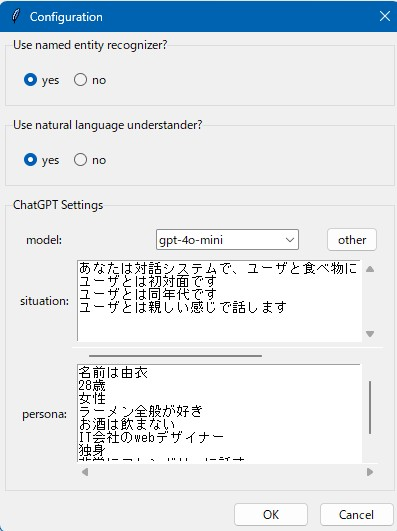
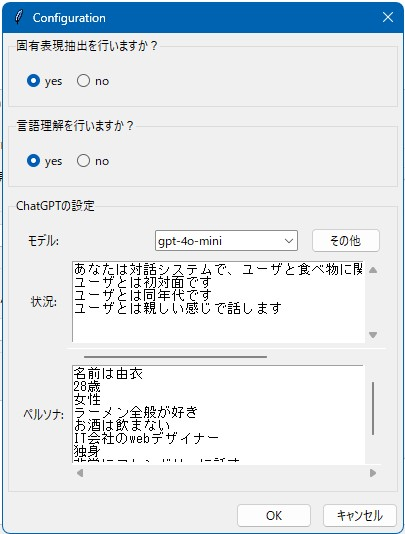
no-code document updated

diff --git a/docs/no-code/index-ja.html b/docs/no-code/index-ja.html
@@ -612,12 +612,12 @@ header, .context-menu, .megamenu-content, footer{
 </style><title>index-ja</title>
 </head>
 <body class='typora-export os-windows'><div class='typora-export-content'>
-<div id='write'  class=''><h1 id='dialbbノーコードツール-ドキュメント'><span>DialBBノーコードツール ドキュメント</span></h1><h2 id='はじめに'><span>はじめに</span></h2><p><span>本ドキュメントはDialBBのノーコードツールのドキュメントです．</span></p><h2 id='動作環境'><span>動作環境</span></h2><p><span>Windows11，MacOSで動作します．</span></p><h2 id='インストール起動windows'><span>インストール・起動（Windows）</span></h2><h3 id='pythonのインストール'><span>Pythonのインストール</span></h3><ul><li><p><span>もし，すでにPythonがインストールされていれば，バージョンを確かめてください．インストールされているかどうかの確かめ方やバージョンの確かめ方はそのうち記述します．インストールされていても，バージョンが3.10-3.12であれば，新しくインストールする必要はありません．3.9以前のPythonがインストールされている場合，使っていないならアンインストールしてください．使っている場合，</span><a href='mailto:dialbb@c4a.jp'><span>DialBBの開発者</span></a><span>に相談してください．</span></p></li><li><p><span>Windows 11</span></p><ul><li><p><span>Pythonがインストールされていない場合，以下の手順でPythonをインストールします．</span></p><ul><li><p><span>ブラウザのアドレスバーに </span><a href='https://www.python.org/downloads/windows/' target='_blank' class='url'>https://www.python.org/downloads/windows/</a><span> を打ち込んでEnterキーを押します．</span></p></li><li><p><span>表示されている中から以下の部分を探します．以下は3.10.11ですが，3.10.x-3.12.xであれば，別のバージョンでも構いません．</span></p></li></ul><p><img src="images/python-download-win.png" referrerpolicy="no-referrer" alt="python-install-win-ja"></p><ul><li><p><span>64bit OSの場合は，</span><a href='https://www.python.org/ftp/python/3.10.11/python-3.10.11-amd64.exe'><span>Windows installer (64-bit)</span></a><span>を，32bit OSの場合は</span><a href='https://www.python.org/ftp/python/3.10.11/python-3.10.11.exe'><span>Windows installer (32 -bit)</span></a><span>をクリックします．</span></p></li><li><p><span>「ダウンロード」フォルダに </span><code>python-3.10.11-amd64.exe</code><span>または</span><code>python-3.10.11-amd32.exe</code><span>というファイルができるので，ダブルクリックします．</span></p></li><li><p><span>以下の画面が現れます．</span></p><p><img src="images/python-setup-win.png" referrerpolicy="no-referrer" alt="python-setup-win"></p><ul><li><p><span>Add python.exe to PATHに</span><strong><span>チェックを入れてから</span></strong><span>Install Nowをクリックします．</span></p><p><img src="images/python-setup-win-path.png" referrerpolicy="no-referrer" alt="python-setup-win-path"></p></li><li><p><span>Pythonがインストールされます．</span></p></li></ul></li></ul></li></ul></li><li><p><span>Mac</span></p><ul><li><p><a href='https://qiita.com/omo_taku/items/bc97f69391b2f4627f36'><span>この記事</span></a><span>の方法２がおすすめです．方法1だと，pythonではなくpython3と打たないとPythonが起動できない可能性があります．</span></p></li></ul></li></ul><h3 id='dialbbのインストール'><span>DialBBのインストール</span></h3><ul><li><p><span>必要なファイルを以下の要領でダウンロードします．</span></p><ul><li><p><span>ブラウザでのアドレスバーに</span><a href='https://github.com/c4a-ri/dialbb/blob/dev-v1.0/docs/files/dialbb.zip' target='_blank' class='url'>https://github.com/c4a-ri/dialbb/blob/dev-v1.0/docs/files/dialbb.zip</a><span> を打ち込んでEnterキーを押します．</span></p></li><li><p><span>遷移したページの右側の下向き矢印をクリックします．</span></p><p><img src="images/github-download.png" referrerpolicy="no-referrer" alt="github-download"></p></li><li><p><code>ダウンロード</code><span>フォルダに</span><code>dialbb</code><span>ファイルがダウンロードされます。エクスプローラで</span><code>ダウンロード</code><span>フォルダを開いて確認してください。以下のようなファイルができているはずです。</span></p><p><img src="images/dialbb-zip-icon.jpg" referrerpolicy="no-referrer" alt="dialbb-zip-icon"></p><ul><li><p><span>このようにチャックの模様があるものをzipファイルと呼びます。環境によっては、</span><code>dialbb.zip</code><span>という名前で表示されます。</span></p></li><li><p><span>複数回ダウンロードすると、新しくダウンロードしたものは</span><code>dialbb(1)</code><span>のような名前になるので、その場合、</span><code>ダウンロード</code><span>フォルダの</span><code>dialbb.zip</code><span>を削除してからもう一度ダウンロードしてください。</span></p></li></ul></li></ul></li><li><p><span>エクスプローラでdialbbアイコンの上にカーソルを持っていき右クリックし、「すべて展開」を選びます。出てきた画面で、「展開」を押してください。dialbbフォルダができるので、それを開いてください。</span></p></li><li><p><span>install（環境によってはinstall.bat）をダブルクリックします。DialBBがインストールされます。</span></p><ul><li><p><span>「WindowsによってPCが保護されました」と出るかもしれません。その場合、「詳細情報」をクリックすると、「実行」ボタンが出てくるので、それを押してください。</span></p></li><li><p><code>Press any key to continue . . .</code><span>と表示されたらインストールは完了なので、何かキーを押して終了してください。</span></p></li></ul></li></ul><h3 id='シナリオエディタのインストール'><span>シナリオエディタのインストール</span></h3><ul><li><p><span>必要なファイルを以下の要領でダウンロードします．</span></p><ul><li><p><span>ブラウザでのアドレスバーに </span><a href='https://github.com/c4a-ri/dialbb-scenario-editor/blob/main/docs/files/editor-gui.zip' target='_blank' class='url'>https://github.com/c4a-ri/dialbb-scenario-editor/blob/main/docs/files/editor-gui.zip</a><span> を打ち込んでEnterキーを押します．</span></p></li><li><p><span>遷移したページの右側の下向き矢印をクリックします．</span></p><p><img src="images/github-download.png" referrerpolicy="no-referrer" alt="github-download"></p></li><li><p><code>ダウンロード</code><span>フォルダに</span><code>editor_gui</code><span>という名前のzipファイル（または</span><code>editor_gui.zip</code><span>）がダウンロードされます．</span></p></li><li><p><span>このファイルを先ほどのdialbbフォルダ（展開してできたフォルダ）に移動します。</span></p></li><li><p><span>dialbbフォルダにある、install-scenario-editorをダブルクリックします。</span></p><ul><li><p><span>「WindowsによってPCが保護されました」と出るかもしれません。その場合、「詳細情報」をクリックすると、「実行」ボタンが出てくるので、それを押してください。</span></p></li><li><p><code>Press any key to continue . . .</code><span>と表示されたらインストールは完了なので、何かキーを押して終了してください。</span></p></li></ul></li></ul></li></ul><h3 id='起動'><span>起動</span></h3><p><span>dialbbフォルダで</span><code>start-dialbb-nc</code><span>（または</span><code>start-dialbb-nc.bat</code><span>）をダブルクリックします。</span></p><p><span>正常に起動するとメイン画面が表示されます．  </span></p><p><img src="images/gui-main.jpg" width="70%"></p><h2 id='インストールと起動mac'><span>インストールと起動（Mac）</span></h2><p><span>これから書きます。</span></p><h2 id='アプリケーションの読み込み作成書き出し'><span>アプリケーションの読み込み・作成・書き出し</span></h2><h3 id='アプリケーションの読み込み新規作成'><span>アプリケーションの読み込み/新規作成</span></h3><ul><li><p><span>すでにあるアプリケーションを読み込む場合は，</span><code>選択</code><span>ボタンをクリックし，読み込むアプリケーションのzipファイルを選択し，</span><code>import</code><span>を押します．</span></p><p><img src="images/gui-select-file-ja.jpg" width="60%"></p></li><li><p><span>アプリケーションを新たに作成する場合は，</span><code>create</code><span>ボタンをクリックし，言語を選択します．テンプレートアプリケーションファイルが読み込まれます．  </span></p><p><img src="images/gui-create.jpg" width="40%"></p></li><li><p><span>その時点で読み込まれているアプリケーションの名前（zipファイルの名前）がメイン画面の</span><code>Current application</code><span>のところに表示されます．</span></p></li></ul><h3 id='アプリケーションの書き出し'><span>アプリケーションの書き出し</span></h3><ul><li><p><code>export</code><span>ボタンをクリックし，保存する場所/ファイル名を指定します，zipファイルにまとめて保存されます．  </span></p><p><img src="images/gui-export-ja.jpg" width="60%"></p></li></ul><h2 id='アプリケーションの起動停止'><span>アプリケーションの起動・停止</span></h2><h3 id='openai-api-キーの登録'><span>OpenAI API キーの登録</span></h3><p><span>最初にDialBB-NCを使うときや，DialBBのインストールをし直した後には，OpenAIのAPIキーの登録が必要です．OpenAIのAPIキーの登録は以下のようにします．  </span></p><ul><li><p><code>settings</code><span>ボタンを押します．</span><br/><img src="images/settings.png" referrerpolicy="no-referrer" alt="settings"></p></li><li><p><code>OPENAI_API_KEY</code><span>の右側に別途入手したOpenAIのAPIキーを入力し，</span><code>OK</code><span>ボタンを押します．</span><code>Saved</code><span>という表示が出るので再度</span><code>OK</code><span>ボタンを押します．OpenAIのAPIキーの入手方法は別途検索してください。</span></p></li></ul><h3 id='起動-2'><span>起動</span></h3><ul><li><p><code>start</code><span>ボタンをクリックします．アプリケーションサーバが起動します．</span></p></li><li><p><span>ChromeやEdgeなどのブラウザを開き，アドレスバーに</span><code>http://localhost:8080/</code><span>を打ち込んでEnterを押します．以下のような画面が表示されます．</span></p><p><img src="images/frontend.png" width="60%"></p></li><li><p><code>start dialogue</code><span>ボタンを押すと会話が開始されます．</span></p></li><li><p><span>再度最初から会話を始めたい場合はブラウザのリロードボタンを押してください．</span></p></li></ul><h3 id='停止'><span>停止</span></h3><ul><li><p><span>メインGUIで</span><code>stop</code><span>ボタンを押すとアプリケーションサーバが停止します．</span></p></li></ul><h3 id='ログ'><span>ログ</span></h3><ul><li><p><span>ログはホームフォルダ（ホームディレクトリ）の中の</span><code>.dialbb_nc_logs</code><span>の中に書きだされます．</span></p><ul><li><p><span>ホームフォルダは，Windowsの場合，</span><code>C:\Users\&lt;ユーザ名&gt;</code><span>です．</span></p></li><li><p><span>ログは日付毎にフォルダにまとまっています．</span></p></li><li><p><span>ログファイルは</span><code>&lt;アプリケーションが起動した時間&gt;.txt</code><span>です．</span></p></li></ul></li></ul><p>&nbsp;</p><h2 id='アプリケーションの編集'><span>アプリケーションの編集</span></h2><ul><li><p><span>アプリケーションを読み込んだ状態で</span><code>edit</code><span>ボタンをクリックし，編集するアプリケーションファイルを選択します．</span><br/><img src="images/edit.jpg" width="40%"></p></li></ul><h3 id='コンフィギュレーションの変更'><span>コンフィギュレーションの変更</span></h3><p><span>  Edit Application画面で</span><code>Configuration</code><span>ボタンを押すと，以下の画面が表示されます．</span></p><p><span>  </span><img src="images/edit-config-ja.jpg" width="40%"></p><p><span>以下が各編集項目の説明です．</span></p><figure class='table-figure'><table><thead><tr><th><span>編集項目</span></th><th><span>説明</span></th></tr></thead><tbody><tr><td><span>Use named entity recognizer?</span></td><td><span>固有表現抽出（後述）を行うかどうかを選択します．</span></td></tr><tr><td><span>User natural language understander？</span></td><td><span>言語理解を行うかどうかを選択します．</span></td></tr><tr><td><span>model</span></td><td><span>利用するChatGPTのモデルを選択します．otherを押すと，プルダウンにないモデルを追加できます．</span></td></tr><tr><td><span>situation</span></td><td><span>GPTのプロンプトに書く状況を入力します，1行ごとに状況を記述します．</span></td></tr><tr><td><span>persona</span></td><td><span>GPTのプロンプトに書くシステムのペルソナを入力します，1行ごとにペルソナを記述します．</span></td></tr></tbody></table></figure><h3 id='シナリオファイルの編集'><span>シナリオファイルの編集</span></h3><p><span>Edit Application画面で</span><code>scenario</code><span>ボタンを押すと，シナリオエディタが表示されます．もし表示されなければ，Webブラウザを立ち上げて，現れたWindowに書いてあるURLをブラウザのアドレスバーに貼り付けてエンターキーを押してください．</span></p><h4 id='シナリオエディタの概要'><span>シナリオエディタの概要</span></h4><p><span>シナリオは，システムノードとユーザノードがリンクで接続されたものです．システムノードではシステム発話を記述し，ユーザノードでは，遷移の条件を記述します．priorityの値が高い順に遷移の条件を調べていき，条件が満たされれば，その次のシステムノードに遷移します．</span></p><p><span>システムノードは複数のユーザにリンクが出て行き，ユーザノードからは一つだけのノードにリンクが出て行きます．（</span><code>to</code><span>が出口，</span><code>from</code><span>が入口です）</span></p><p><span>システム発話や遷移の条件の記述については，後で説明します．</span></p><p><img src="images/scenario-editor-ja.jpg" width="90%"></p><h4 id='ノードの追加'><span>ノードの追加</span></h4><p><span>背景で右クリック し，</span><code>AddSystemNode</code><span>か</span><code>AddUserNode</code><span>を選択するとシステムノードかユーザノードが新規追加されます． </span></p><p><img src="images/add-node-ja.jpg" width="30%"></p><h4 id='ノードの削除'><span>ノードの削除</span></h4><p><span>ノードの上で右クリック し，</span><code>Delete</code><span>を選択するとそのノードが削除されます．</span></p><p><img src="images/del-node-ja.jpg" width="30%"></p><h4 id='ノードの編集'><span>ノードの編集</span></h4><p><span>ノードの上で右クリック し，</span><code>Edit</code><span>を選択すると，ノードの編集画面が表示されます．</span></p><p><img src="images/sys-setting.jpg" width="30%"><span>　</span><img src="images/user-setting.jpg" width="30%"></p><p><span>ノードの編集の仕方は後述します．</span></p><h4 id='コネクタの接続削除'><span>コネクタの接続・削除</span></h4><p><span>ノードの</span><code>to</code><span>を左クリック し，他ノードの</span><code>from</code><span>へドラッグして接続します．</span></p><p><img src="images/editor-connection-ja.jpg" width="30%"><span>　</span></p><p><span>削除は</span><code>from</code><span>をつまんで離すか，リンク上で右クリック して</span><code>Delete</code><span>を選択します．</span></p><p><img src="images/editor-conn-del-ja.jpg" width="30%"></p><h4 id='保存'><span>保存</span></h4><p><span>上部の</span><code>Save</code><span>ボタンをクリックすると保存します．保存しないでエディタサーバを停止した場合はデータが失われます．</span></p><h4 id='システムノードの編集の仕方'><span>システムノードの編集の仕方</span></h4><p><span>システムノードを右クリックすると以下のような入力ダイアログが表示されますので，中身を書き換えて</span><code>Save</code><span>ボタンを押します．</span><code>Close</code><span>ボタンを押すと保存せずに閉じます．</span></p><p><img src="images/system-node-ja.jpg" width="30%"><span>　</span></p><p><code>type</code><span>は以下のどれかです．</span></p><figure class='table-figure'><table><thead><tr><th><span>type</span></th><th><span>説明</span></th></tr></thead><tbody><tr><td><span>initial</span></td><td><span>対話の最初のシステム発話を記述します．シナリオの中で，typeがinitialであるシステムノードは一つだけ存在しなくてはなりません．</span></td></tr><tr><td><span>final</span></td><td><span>このノードに来たら，システム発話を生成して対話を終了します．typeがfinalであるシステムノードはいくつあっても構いません．</span></td></tr><tr><td><span>error</span></td><td><span>内部エラーが起きたときにこのノードに移行し，システム発話を生成して終了します．別のノードとつながっていてはいけません．</span></td></tr><tr><td><span>other</span></td><td><span>その他のシステムノードです．</span></td></tr></tbody></table></figure><p><code>utterance</code><span>には，システム発話を書きます．システム発話の中の</span><code>{}</code><span>で囲んだ部分に以下のようなものを書けます．</span></p><ul><li><p><code>$&quot;&lt;インストラクション&gt;&quot;</code><span> </span>
+<div id='write'  class=''><h1 id='dialbbノーコードツール-ドキュメント'><span>DialBBノーコードツール ドキュメント</span></h1><h2 id='はじめに'><span>はじめに</span></h2><p><span>本ドキュメントはDialBBのノーコードツールのドキュメントです．</span></p><h2 id='動作環境'><span>動作環境</span></h2><p><span>Windows11，MacOSで動作します．</span></p><h2 id='インストール起動windows'><span>インストール・起動（Windows）</span></h2><h3 id='pythonのインストール'><span>Pythonのインストール</span></h3><ul><li><p><span>もし，すでにPythonがインストールされていれば，バージョンを確かめてください．インストールされているかどうかの確かめ方やバージョンの確かめ方はそのうち記述します．インストールされていても，バージョンが3.10-3.12であれば，新しくインストールする必要はありません．3.9以前のPythonがインストールされている場合，使っていないならアンインストールしてください．使っている場合，</span><a href='mailto:dialbb@c4a.jp'><span>DialBBの開発者</span></a><span>に相談してください．</span></p></li><li><p><span>Windows 11</span></p><ul><li><p><span>Pythonがインストールされていない場合，以下の手順でPythonをインストールします．</span></p><ul><li><p><span>ブラウザのアドレスバーに </span><a href='https://www.python.org/downloads/windows/' target='_blank' class='url'>https://www.python.org/downloads/windows/</a><span> を打ち込んでEnterキーを押します．</span></p></li><li><p><span>表示されている中から以下の部分を探します．以下は3.10.11ですが，3.10.x-3.12.xであれば，別のバージョンでも構いません．</span></p></li></ul><p><img src="images/python-download-win.png" referrerpolicy="no-referrer" alt="python-install-win-ja"></p><ul><li><p><span>64bit OSの場合は，</span><a href='https://www.python.org/ftp/python/3.10.11/python-3.10.11-amd64.exe'><span>Windows installer (64-bit)</span></a><span>を，32bit OSの場合は</span><a href='https://www.python.org/ftp/python/3.10.11/python-3.10.11.exe'><span>Windows installer (32 -bit)</span></a><span>をクリックします．</span></p></li><li><p><span>「ダウンロード」フォルダに </span><code>python-3.10.11-amd64.exe</code><span>または</span><code>python-3.10.11-amd32.exe</code><span>というファイルができるので，ダブルクリックします．</span></p></li><li><p><span>以下の画面が現れます．</span></p><p><img src="images/python-setup-win.png" referrerpolicy="no-referrer" alt="python-setup-win"></p><ul><li><p><span>Add python.exe to PATHに</span><strong><span>チェックを入れてから</span></strong><span>Install Nowをクリックします．</span></p><p><img src="images/python-setup-win-path.png" referrerpolicy="no-referrer" alt="python-setup-win-path"></p></li><li><p><span>Pythonがインストールされます．</span></p></li></ul></li></ul></li></ul></li><li><p><span>Mac</span></p><ul><li><p><a href='https://qiita.com/omo_taku/items/bc97f69391b2f4627f36'><span>この記事</span></a><span>の方法２がおすすめです．方法1だと，pythonではなくpython3と打たないとPythonが起動できない可能性があります．</span></p></li></ul></li></ul><h3 id='dialbbのインストール'><span>DialBBのインストール</span></h3><ul><li><p><span>必要なファイルを以下の要領でダウンロードします．</span></p><ul><li><p><span>ブラウザでのアドレスバーに</span><a href='https://github.com/c4a-ri/dialbb/blob/dev-v1.0/docs/files/dialbb.zip' target='_blank' class='url'>https://github.com/c4a-ri/dialbb/blob/dev-v1.0/docs/files/dialbb.zip</a><span> を打ち込んでEnterキーを押します．</span></p></li><li><p><span>遷移したページの右側の下向き矢印をクリックします．</span></p><p><img src="images/github-download.png" referrerpolicy="no-referrer" alt="github-download"></p></li><li><p><code>ダウンロード</code><span>フォルダに</span><code>dialbb</code><span>ファイルがダウンロードされます。エクスプローラで</span><code>ダウンロード</code><span>フォルダを開いて確認してください。以下のようなファイルができているはずです。</span></p><p><img src="images/dialbb-zip-icon.jpg" referrerpolicy="no-referrer" alt="dialbb-zip-icon"></p><ul><li><p><span>このようにチャックの模様があるものをzipファイルと呼びます。環境によっては、</span><code>dialbb.zip</code><span>という名前で表示されます。</span></p></li><li><p><span>複数回ダウンロードすると、新しくダウンロードしたものは</span><code>dialbb(1)</code><span>のような名前になるので、その場合、</span><code>ダウンロード</code><span>フォルダの</span><code>dialbb.zip</code><span>を削除してからもう一度ダウンロードしてください。</span></p></li></ul></li></ul></li><li><p><span>エクスプローラでdialbbアイコンの上にカーソルを持っていき右クリックし、「すべて展開」を選びます。出てきた画面で、「展開」を押してください。dialbbフォルダができるので、それを開いてください。</span></p></li><li><p><span>install（環境によってはinstall.bat）をダブルクリックします。DialBBがインストールされます。</span></p><ul><li><p><span>「WindowsによってPCが保護されました」と出るかもしれません。その場合、「詳細情報」をクリックすると、「実行」ボタンが出てくるので、それを押してください。</span></p></li><li><p><code>Press any key to continue . . .</code><span>と表示されたらインストールは完了なので、何かキーを押して終了してください。</span></p></li></ul></li></ul><h3 id='シナリオエディタのインストール'><span>シナリオエディタのインストール</span></h3><ul><li><p><span>必要なファイルを以下の要領でダウンロードします．</span></p><ul><li><p><span>ブラウザでのアドレスバーに </span><a href='https://github.com/c4a-ri/dialbb-scenario-editor/blob/main/docs/files/editor-gui.zip' target='_blank' class='url'>https://github.com/c4a-ri/dialbb-scenario-editor/blob/main/docs/files/editor-gui.zip</a><span> を打ち込んでEnterキーを押します．</span></p></li><li><p><span>遷移したページの右側の下向き矢印をクリックします．</span></p></li><li><p><code>ダウンロード</code><span>フォルダに</span><code>editor_gui</code><span>という名前のzipファイル（または</span><code>editor_gui.zip</code><span>）がダウンロードされます．</span></p></li><li><p><span>このファイルを先ほどのdialbbフォルダ（展開してできたフォルダ）に移動します。</span></p></li><li><p><span>dialbbフォルダにある、install-scenario-editorをダブルクリックします。</span></p><ul><li><p><span>「WindowsによってPCが保護されました」と出るかもしれません。その場合、「詳細情報」をクリックすると、「実行」ボタンが出てくるので、それを押してください。</span></p></li><li><p><code>Press any key to continue . . .</code><span>と表示されたらインストールは完了なので、何かキーを押して終了してください。</span></p></li></ul></li></ul></li></ul><h3 id='起動'><span>起動</span></h3><p><span>dialbbフォルダ内で</span><code>start-dialbb-nc</code><span>（または</span><code>start-dialbb-nc.bat</code><span>）をダブルクリックします。</span></p><p><span>正常に起動するとメイン画面が表示されます．  </span></p><p><img src="images/gui-main-ja.jpg" width="70%"></p><h2 id='インストールと起動mac'><span>インストールと起動（Mac）</span></h2><p><span>記述予定</span></p><h2 id='アプリケーションの読み込み作成書き出し'><span>アプリケーションの読み込み・作成・書き出し</span></h2><h3 id='アプリケーションの読み込み新規作成'><span>アプリケーションの読み込み/新規作成</span></h3><ul><li><p><span>すでにあるアプリケーションを読み込む場合は，</span><code>選択</code><span>ボタンをクリックし，読み込むアプリケーションのzipファイルを選択し，</span><code>読み込み</code><span>を押します．</span></p><p><img src="images/gui-select-file-ja.jpg" width="60%"></p></li><li><p><span>アプリケーションを新たに作成する場合は，</span><code>新規作成</code><span>ボタンをクリックし，言語を選択します．テンプレートアプリケーションファイルが読み込まれます．  </span></p><p><img src="images/gui-create-ja.png" width="60%"></p></li><li><p><span>その時点で読み込まれているアプリケーションの名前（zipファイルの名前）がメイン画面の</span><code>Current application</code><span>のところに表示されます．</span></p></li></ul><h3 id='アプリケーションの書き出し'><span>アプリケーションの書き出し</span></h3><ul><li><p><code>書き出し</code><span>ボタンをクリックし，保存する場所/ファイル名を指定します，zipファイルにまとめて保存されます．  </span></p><p><img src="images/gui-export-ja.jpg" width="60%"></p></li></ul><h2 id='アプリケーションの起動停止'><span>アプリケーションの起動・停止</span></h2><h3 id='openai-api-キーの登録'><span>OpenAI API キーの登録</span></h3><p><span>最初にDialBB-NCを使うときや，DialBBのインストールをし直した後には，OpenAIのAPIキーの登録が必要です．OpenAIのAPIキーの登録は以下のようにします．  </span></p><ul><li><p><span>`設定ボタンを押します．</span><br/><img src="images/settings-ja.jpg" referrerpolicy="no-referrer" alt="settings"></p></li><li><p><code>OPENAI_API_KEY</code><span>の右側に別途入手したOpenAIのAPIキーを入力し，</span><code>OK</code><span>ボタンを押します．</span><code>保存しました</code><span>という表示が出るので再度</span><code>OK</code><span>ボタンを押します．OpenAIのAPIキーの入手方法は別途「OpenAI API キー」などで検索して調べてください。</span></p></li></ul><h3 id='起動-2'><span>起動</span></h3><ul><li><p><code>起動</code><span>ボタンをクリックします．アプリケーションサーバが起動します．</span></p></li><li><p><span>ChromeやEdgeなどのブラウザを開き，アドレスバーに</span><code>http://localhost:8080/</code><span>を打ち込んでEnterを押します．以下のようなチャット画面が表示されます．</span></p><p><img src="images/frontend.png" width="60%"></p></li><li><p><code>start dialogue</code><span>ボタンを押すと会話が開始されます．</span></p></li><li><p><span>再度最初から会話を始めたい場合はブラウザのリロードボタンを押してください．</span></p></li><li><p><a href='http://localhost:8080/test' target='_blank' class='url'>http://localhost:8080/test</a><span>にアクセスするとシンプルな画面が出ます。（対話のログのコピペがしやすいです）</span></p></li></ul><h3 id='停止'><span>停止</span></h3><ul><li><p><span>メインGUIで</span><code>stop</code><span>ボタンを押すとアプリケーションサーバが停止します．</span></p></li></ul><h3 id='ログ'><span>ログ</span></h3><ul><li><p><span>ブラウザからアクセスしても画面が出ない場合や対話がうまくいかない場合は、</span><code>ログ表示</code><span>ボタンを押し、ログを見て近くのエンジニアか</span><a href='mailto:dialbb@c4a.jp'><span>DialBB開発者</span></a><span>に相談してください。</span></p></li></ul><ul><li><p><span>ログはホームフォルダ（ホームディレクトリ）の中の</span><code>.dialbb_nc_logs</code><span>フォルダの中に書きだされます．</span></p><ul><li><p><span>ホームフォルダは，Windowsの場合，</span><code>C:\Users\&lt;ユーザ名&gt;</code><span>です．</span></p></li><li><p><span>ログは日付毎にフォルダにまとまっています．</span></p></li><li><p><span>ログファイルは</span><code>&lt;アプリケーションが起動した時間&gt;.txt</code><span>です．</span></p></li></ul></li></ul><p>&nbsp;</p><h2 id='アプリケーションの編集'><span>アプリケーションの編集</span></h2><ul><li><p><span>アプリケーションを読み込んだ状態で</span><code>edit</code><span>ボタンをクリックし，編集するアプリケーションファイルを選択します．</span><br/><img src="images/edit-ja.jpg" width="40%"></p></li></ul><h3 id='コンフィギュレーションの変更'><span>コンフィギュレーションの変更</span></h3><p><span>  Edit Application画面で</span><code>コンフィギュレーション</code><span>ボタンを押すと，以下の画面が表示されます．</span></p><p><span>  </span><img src="images/edit-config-ja.jpg" width="40%"></p><p><span>以下が各編集項目の説明です．</span></p><figure class='table-figure'><table><thead><tr><th><span>編集項目</span></th><th><span>説明</span></th></tr></thead><tbody><tr><td><span>固有表現抽出を行いますか？</span></td><td><span>固有表現抽出（後述）を行うかどうかを選択します．</span></td></tr><tr><td><span>言語理解を行いますか？</span></td><td><span>言語理解を行うかどうかを選択します．</span></td></tr><tr><td><span>モデル</span></td><td><span>利用するChatGPTのモデルを選択します．</span><code>その他</code><span>を押すと，プルダウンにないモデルを追加できます．</span></td></tr><tr><td><span>状況</span></td><td><span>GPTのプロンプトに書く状況を入力します，1行ごとに状況を記述します．</span></td></tr><tr><td><span>ペルソナ</span></td><td><span>GPTのプロンプトに書くシステムのペルソナを入力します，1行ごとにペルソナを記述します．</span></td></tr></tbody></table></figure><h3 id='シナリオファイルの編集'><span>シナリオファイルの編集</span></h3><p><span>Edit Application画面で</span><code>シナリオ</code><span>ボタンを押すと，シナリオエディタが表示されます．もし表示されなければ，Webブラウザを立ち上げて，現れたウインドウに書いてあるURLをブラウザのアドレスバーに貼り付けてエンターキーを押してください．</span></p><h4 id='シナリオエディタの概要'><span>シナリオエディタの概要</span></h4><p><span>シナリオは，システムノードとユーザノードがリンクで接続されたものです．システムノードではシステム発話を記述し，ユーザノードでは，遷移の条件を記述します．priorityの値が高い順に遷移の条件を調べていき，条件が満たされれば，その次のシステムノードに遷移します．</span></p><p><span>システムノードは複数のユーザにリンクが出て行き，ユーザノードからは一つだけのノードにリンクが出て行きます．（</span><code>to</code><span>が出口，</span><code>from</code><span>が入口です）</span></p><p><span>システム発話や遷移の条件の記述については，後で説明します．</span></p><p><img src="images/scenario-editor-ja.jpg" width="90%"></p><h4 id='ノードの追加'><span>ノードの追加</span></h4><p><span>背景で右クリック し，</span><code>システムノード追加</code><span>か</span><code>ユーザノード追加</code><span>を選択するとシステムノードかユーザノードが新規追加されます． </span></p><p><img src="images/add-node-ja.jpg" width="30%"></p><h4 id='ノードの削除'><span>ノードの削除</span></h4><p><span>ノードの上で右クリック し，</span><code>削除</code><span>を選択するとそのノードが削除されます．</span></p><p><img src="images/del-node-ja.jpg" width="30%"></p><h4 id='ノードの編集'><span>ノードの編集</span></h4><p><span>ノードの上で右クリック し，</span><code>Edit</code><span>を選択すると，ノードの編集画面が表示されます．</span></p><p><img src="images/sys-setting.jpg" width="30%"><span>　</span><img src="images/user-setting.jpg" width="30%"></p><p><span>ノードの編集の仕方は後述します．</span></p><h4 id='コネクタの接続削除'><span>コネクタの接続・削除</span></h4><p><span>ノードの</span><code>to</code><span>を左クリック し，他ノードの</span><code>from</code><span>へドラッグして接続します．</span></p><p><img src="images/editor-connection-ja.jpg" width="30%"><span>　</span></p><p><span>削除は</span><code>from</code><span>をつまんで離すか，リンク上で右クリック して</span><code>Delete</code><span>を選択します．</span></p><p><img src="images/editor-conn-del-ja.jpg" width="30%"></p><h4 id='保存'><span>保存</span></h4><p><span>上部の</span><code>Save</code><span>ボタンをクリックすると保存します．保存しないでエディタサーバを停止した場合はデータが失われます．</span></p><h4 id='システムノードの編集の仕方'><span>システムノードの編集の仕方</span></h4><p><span>システムノードを右クリックすると以下のような入力ダイアログが表示されますので，中身を書き換えて</span><code>Save</code><span>ボタンを押します．</span><code>Close</code><span>ボタンを押すと保存せずに閉じます．</span></p><p><img src="images/system-node-ja.jpg" width="30%"><span>　</span></p><p><code>type</code><span>は以下のどれかです．</span></p><figure class='table-figure'><table><thead><tr><th><span>type</span></th><th><span>説明</span></th></tr></thead><tbody><tr><td><span>initial</span></td><td><span>対話の最初のシステム発話を記述します．シナリオの中で，typeがinitialであるシステムノードは一つだけ存在しなくてはなりません．</span></td></tr><tr><td><span>final</span></td><td><span>このノードに来たら，システム発話を生成して対話を終了します．typeがfinalであるシステムノードはいくつあっても構いません．</span></td></tr><tr><td><span>error</span></td><td><span>内部エラーが起きたときにこのノードに移行し，システム発話を生成して終了します．別のノードとつながっていてはいけません．</span></td></tr><tr><td><span>other</span></td><td><span>その他のシステムノードです．</span></td></tr></tbody></table></figure><p><code>utterance</code><span>には，システム発話を書きます．システム発話の中の</span><code>{}</code><span>で囲んだ部分に以下のようなものを書けます．</span></p><ul><li><p><code>$&quot;&lt;インストラクション&gt;&quot;</code><span> </span>
 <span>ChatGPTにインストラクションを与えて発話を生成させます．このとき，コンフィギュレーションで指定したsituationとpersonaが用いられます．</span>
-<span>例： </span><code>{$&quot;感想を言う発話を20字以内で生成してください．&quot;}ところで，最近の体調はいかがですか？</code><span> </span></p></li><li><p><code>#&lt;言語理解のスロット名&gt;</code></p><p><span>直前のユーザ発話の言語理解で得られたスロットの値で置き換えられます．</span><code>{#好きなラーメン}</code><span>なら，</span><code>好きなラーメン</code><span>スロットの値で置き換えられます．</span></p><p><span>例：</span><code>{#好きなラーメン}がお好きなんですね！</code></p><p><span>スロットが空の場合，空文字列になります．スロットが空でないときだけ，このノードに来るように，ユーザノードで設定する必要があります．</span></p><p><span>言語理解については後で説明します．</span></p></li><li><p><code>#&lt;NE_固有表現のクラス&gt;</code></p><p><span>固有表現抽出の結果で置き換えられます．</span><code>{#NE_Person}</code><span>なら，直前のユーザ発話の固有表現抽出の結果得られた</span><code>Person</code><span>クラスの固有表現が用いられます．</span></p><p><span>例：</span><code>こんにちは，{#NE_Person}さん</code></p><p><span>固有表現が抽出できなかった場合，空文字列になります．スロットが空でないときだけ，このノードに来るように，ユーザノードで設定する必要があります．</span></p><p><span>固有表現抽出については後で説明します．</span></p></li></ul><h4 id='ユーザノードの編集の仕方'><span>ユーザノードの編集の仕方</span></h4><p><span>ユーザノードを右クリックすると以下のような入力ダイアログが表示されますので，中身を書き換えて</span><code>Save</code><span>ボタンを押します．</span><code>Close</code><span>ボタンを押すと保存せずに閉じます．</span></p><p><img src="images/user-node-ja.jpg" width="30%"><span>　</span></p><p><code>priority number</code><span>はこのユーザノードの優先度を表す整数です．一つのシステムノードからつながっているユーザノードのうち，priority numberの高い順に条件がチェックされます．この数字は，シナリオを保存する度にリセットされ，大きいものから順に100, 90, 80, ...に変更されます．</span></p><p><code>user utterance example</code><span>にはユーザ発話例を書きます．システムの動作には影響しません．書かなくても構いません．</span></p><p><code>user utterance type</code><span>と</span><code>conditions</code><span>にはこのユーザノードの条件を書きます．両方が満たされたとき，このユーザノードの次のシステムノードに移行します．</span></p><p><code>user utterance type</code><span>は言語理解で得られるユーザ発話のタイプを書きます．コンフィギュレーションで，言語理解を行うことを選択している場合，および，言語理解で得られたユーザ発話のタイプが，ここに書いてあるものにマッチした場合，条件が満たされます．ここが空の場合は，必ず条件が満たされたとみなします．</span></p><p><code>conditions</code><span>には，ユーザ発話以外のタイプに関する条件を書きます．条件が複数ある場合は，&quot;;&quot;でつなぎます．条件には以下のようなものが書けます．</span></p><ul><li><p><code>$&quot;&lt;インストラクション&gt;&quot;</code><span> </span>
+<span>例： </span><code>{$&quot;感想を言う発話を20字以内で生成してください．&quot;}ところで，最近の体調はいかがですか？</code><span> </span></p></li><li><p><code>#&lt;言語理解のスロット名&gt;</code></p><p><span>直前のユーザ発話の言語理解で得られたスロットの値で置き換えられます．</span><code>{#好きなラーメン}</code><span>なら，</span><code>好きなラーメン</code><span>スロットの値で置き換えられます．</span></p><p><span>例：</span><code>{#好きなラーメン}がお好きなんですね！</code></p><p><span>スロットが空の場合，空文字列になります．スロットが空でないときだけ，このノードに来るように，ユーザノードで設定する必要があります．</span></p><p><span>言語理解については後で説明します．</span></p></li><li><p><code>#&lt;NE_固有表現のクラス&gt;</code></p><p><span>固有表現抽出の結果で置き換えられます．</span><code>{#NE_人名}</code><span>なら，直前のユーザ発話の固有表現抽出の結果得られた</span><code>人名</code><span>クラスの固有表現が用いられます．</span></p><p><span>例：</span><code>こんにちは，{#NE_人名}さん</code></p><p><span>固有表現が抽出できなかった場合，空文字列になります．スロットが空でないときだけ，このノードに来るように，ユーザノードで設定する必要があります．</span></p><p><span>固有表現抽出については後で説明します．</span></p></li></ul><h4 id='ユーザノードの編集の仕方'><span>ユーザノードの編集の仕方</span></h4><p><span>ユーザノードを右クリックすると以下のような入力ダイアログが表示されますので，中身を書き換えて</span><code>Save</code><span>ボタンを押します．</span><code>Close</code><span>ボタンを押すと保存せずに閉じます．</span></p><p><img src="images/user-node-ja.jpg" width="30%"><span>　</span></p><p><code>優先度</code><span>はこのユーザノードの優先度を表す整数です．一つのシステムノードからつながっているユーザノードのうち，priority numberの高い順に条件がチェックされます．この数字は，シナリオを保存する度にリセットされ，大きいものから順に100, 90, 80, ...に変更されます．</span></p><p><code>ユーザ発話の例</code><span>にはユーザ発話例を書きます．システムの動作には影響しません．書かなくても構いません．</span></p><p><code>ユーザ発話タイプ</code><span>と</span><code>遷移の条件￥</code><span>にはこのユーザノードの条件を書きます．両方が満たされたとき，このユーザノードの次のシステムノードに移行します．</span></p><p><code>ユーザ発話タイプ</code><span>は言語理解で得られるユーザ発話のタイプを書きます．コンフィギュレーションで，言語理解を行うことを選択している場合，および，言語理解で得られたユーザ発話のタイプが，ここに書いてあるものにマッチした場合，条件が満たされます．ここが空の場合は，必ず条件が満たされたとみなします．</span></p><p><code>遷移の条件</code><span>には，ユーザ発話以外のタイプに関する条件を書きます．条件が複数ある場合は，&quot;;&quot;でつなぎます．条件には以下のようなものが書けます．</span></p><ul><li><p><code>$&quot;&lt;インストラクション&gt;&quot;</code><span> </span>
 <span>ChatGPTにインストラクションを与えて条件判定をさせます．このとき，コンフィギュレーションで指定したsituationとpersonaが用いられます．</span>
-<span>例： </span><code>$&quot;ユーザが会話に飽きたかどうかを判断してください．&quot;</code><span> </span></p></li><li><p><code>#&lt;言語理解のスロット名&gt; == &quot;&lt;文字列&gt;&quot;</code><span>/ </span><code>#&lt;言語理解のスロット名&gt; != &quot;&quot;</code><span> </span></p><p><span>直前のユーザ発話の言語理解で得られたスロットの値が文字列に一致するかどうか（</span><code>==</code><span>）または一致しないかどうか（</span><code>!=</code><span>）を判定します．</span></p><p><span>例：</span><code>#好きなラーメン==&quot;豚骨ラーメン&quot;</code></p><p><span>スロットが空の場合，空文字列になります．例えば</span><code>好きなラーメン</code><span>スロットの値が空であれば，条件，</span><code>#好きなラーメン==&quot;&quot;</code><span>は満たされます．</span></p></li><li><p><code>#&lt;NE_固有表現のクラス&gt; == &quot;&lt;文字列&gt;&quot;</code><span>/ </span><code>#&lt;NE_固有表現のクラス&gt; != &quot;&quot;</code><span> </span></p><p><span>直前のユーザ発話の固有表現抽出で得られた固有表現の値が文字列に一致するかどうか（</span><code>==</code><span>）または一致しないかどうか（</span><code>!=</code><span>）を判定します．</span></p><p><span>例：</span><code>#NE_Person!=&quot;&quot;</code></p><p><span>固有表現が抽出できなかった場合，空文字列になります．例えば</span><code>Person</code><span>クラスの固有表現が抽出できなかった場合，条件，</span><code>#NE_Person!=&quot;&quot;</code><span>は満たされません．</span></p></li><li><p><code>_num_turns_exceeds(&quot;&lt;ターン数&gt;&quot;)</code></p><p><span>対話開始からのユーザ発話の回数が</span><code>&lt;ターン数&gt;</code><span>を超えた場合に条件が満たされます．</span>
-<span>例：</span><code>_num_turns_exceeds(&quot;10&quot;)</code></p></li></ul><p><code>actions</code><span>は進んだ使い方の時のみ利用するのでここでは説明しません．</span></p><h3 id='言語理解用知識の編集'><span>言語理解用知識の編集</span></h3><p><span>言語理解とは，発話タイプに分類し，必要な情報を取り出すことです．必要な情報のことをスロットと言います．例えば，気象情報を検索する対話システムならば，タイプは「天気を聞く」「気温を聞く」などで，スロットは，「地名」や「日付」などになります．</span>
+<span>例： </span><code>$&quot;ユーザが会話に飽きたかどうかを判断してください．&quot;</code><span> </span></p></li><li><p><code>#&lt;言語理解のスロット名&gt; == &quot;&lt;文字列&gt;&quot;</code><span>/ </span><code>#&lt;言語理解のスロット名&gt; != &quot;&quot;</code><span> </span></p><p><span>直前のユーザ発話の言語理解で得られたスロットの値が文字列に一致するかどうか（</span><code>==</code><span>）または一致しないかどうか（</span><code>!=</code><span>）を判定します．</span></p><p><span>例：</span><code>#好きなラーメン==&quot;豚骨ラーメン&quot;</code></p><p><span>スロットが空の場合，空文字列になります．例えば</span><code>好きなラーメン</code><span>スロットの値が空であれば，条件，</span><code>#好きなラーメン==&quot;&quot;</code><span>は満たされます．</span></p></li><li><p><code>#&lt;NE_固有表現のクラス&gt; == &quot;&lt;文字列&gt;&quot;</code><span>/ </span><code>#&lt;NE_固有表現のクラス&gt; != &quot;&quot;</code><span> </span></p><p><span>直前のユーザ発話の固有表現抽出で得られた固有表現の値が文字列に一致するかどうか（</span><code>==</code><span>）または一致しないかどうか（</span><code>!=</code><span>）を判定します．</span></p><p><span>例：</span><code>#NE_人名!=&quot;&quot;</code></p><p><span>固有表現が抽出できなかった場合，空文字列になります．例えば</span><code>Person</code><span>クラスの固有表現が抽出できなかった場合，条件，</span><code>#NE_Person!=&quot;&quot;</code><span>は満たされません．</span></p></li><li><p><code>_num_turns_exceeds(&quot;&lt;ターン数&gt;&quot;)</code></p><p><span>対話開始からのユーザ発話の回数が</span><code>&lt;ターン数&gt;</code><span>を超えた場合に条件が満たされます．</span>
+<span>例：</span><code>_num_turns_exceeds(&quot;10&quot;)</code></p></li></ul><p><code>遷移時のアクション</code><span>は進んだ使い方の時のみ利用するのでここでは説明しません．</span></p><h3 id='言語理解用知識の編集'><span>言語理解用知識の編集</span></h3><p><span>言語理解とは，発話タイプに分類し，必要な情報を取り出すことです．必要な情報のことをスロットと言います．例えば，気象情報を検索する対話システムならば，タイプは「天気を聞く」「気温を聞く」などで，スロットは，「地名」や「日付」などになります．</span>
 <span>この「地名」や「日付」をスロット名，実際に抽出される地名や日付の値をスロット値と呼びます．このタイプやスロット値をシナリオのユーザノードで遷移の条件として使うことができます．</span></p><p><span>対話システムに言語理解を行わせるには，言語理解知識が必要です．言語理解知識には以下のような情報を記述します．</span></p><ul><li><p><span>どのような発話がどのタイプなのか？</span></p></li><li><p><span>どのようなスロットがあるのか？</span></p></li><li><p><span>スロット値の例</span></p></li><li><p><span>発話とそれから得られるスロットの例</span></p></li></ul><p><span>さらに，各スロットの同義語も記述することができます．</span></p><p><span>同じ単語が別のスロットになることもあります．例えば，券売機の対話システムで「東京から新大阪までの乗車券」と言えば，乗車駅＝東京，降車駅＝新大阪，券種別＝乗車券となりますが，乗車駅スロットと降車駅スロットは両方とも駅名です．</span></p><p><span>言語理解知識を編集するには，Edit Application画面で</span><code>NLU knowledge</code><span>を選択します．Excelが起動して言語理解知識を読み込むので，編集して保存してください． </span></p><p><span>言語理解用知識のExcelファイルは，</span><code>utterances</code><span>シートと，</span><code>slots</code><span>シートからなります．</span>
 <span>以下が</span><code>utterances</code><span>シートの例です．</span></p><figure class='table-figure'><table><thead><tr><th><span>flag</span></th><th><span>type</span></th><th><span>utterance</span></th><th><span>slots</span></th></tr></thead><tbody><tr><td><span>Y</span></td><td><span>肯定</span></td><td><span>はい</span></td><td>&nbsp;</td></tr><tr><td><span>Y</span></td><td><span>特定のラーメンが好き</span></td><td><span>好きなのは味噌ラーメン</span></td><td><span>好きなラーメン=味噌ラーメン</span></td></tr><tr><td><span>Y</span></td><td><span>ある地方の特定のラーメンが好き</span></td><td><span>博多の豚骨ラーメンって美味しいですよね</span></td><td><span>地方=博多，好きなラーメン=豚骨ラーメン</span></td></tr></tbody></table></figure><ul><li><p><code>flag</code><span>列は使いません．</span></p></li><li><p><code>type</code><span>列には発話のタイプを書きます．</span></p></li><li><p><code>utterance</code><span>列は発話例です．</span></p></li><li><p><code>slots</code><span>には，</span><code>&lt;スロット名&gt;=&lt;スロット値&gt;, ... ,&lt;スロット名&gt;=&lt;スロット値&gt;</code><span>の形で発話に含まれるスロットを書きます．カンマは全角でも読点でも構いません．</span></p></li></ul><p><span>以下は</span><code>slots</code><span>シートの例です．</span></p><figure class='table-figure'><table><thead><tr><th><span>flag</span></th><th><span>slot name</span></th><th><span>entity</span></th><th><span>synonyms</span></th></tr></thead><tbody><tr><td><span>Y</span></td><td><span>好きなラーメン</span></td><td><span>豚骨ラーメン</span></td><td><span>とんこつラーメン，豚骨スープのラーメン，豚骨</span></td></tr><tr><td><span>Y</span></td><td><span>好きなラーメン</span></td><td><span>味噌バターラーメン</span></td><td>&nbsp;</td></tr><tr><td><span>Y</span></td><td><span>地方</span></td><td><span>富山</span></td><td>&nbsp;</td></tr></tbody></table></figure><ul><li><p><code>flag</code><span>列は使いません．</span></p></li><li><p><code>slot name</code><span>列にはスロット名を書きます．</span></p></li><li><p><code>entity</code><span>列にはスロット値になり得るものの例を書きます．</span></p></li><li><p><code>synonyms</code><span>列には，スロット値の同義語をカンマまたは読点で並べて書きます．同義語がスロット値になった場合，entity列のものに置き換えられます．</span></p></li></ul><h3 id='固有表現抽出知識の編集'><span>固有表現抽出知識の編集</span></h3><p><span>固有表現とは，固有名詞＋αと思って構いません．発話テキストから固有表現を抽出することを固有表現抽出と言います．固有表現はクラスに分かれています．例えば，人名，地名，組織名，商品名，時間，数量などが，クラスとして使われます．言語理解のスロットと似ていますが，言語理解のスロットは，タイプと結びついているのに対して，</span></p><p><span>対話システムに固有表現抽出を行わせるには，固有表現抽出知識が必要です．固有表現抽出知識には以下のような情報を記述します．</span></p><ul><li><p><span>どのようなクラスの固有表現があるのか？</span></p></li><li><p><span>各クラスの固有表現の例</span></p></li><li><p><span>発話とそれから得られる固有表現の例</span></p></li></ul><p><span>一つの発話から同じクラスの固有表現が複数得られることもあります．例えば，「太郎と次郎はラーメンが好き」ならば，「太郎」も「次郎」も人名クラスの固有表現です．</span></p><p><span>固有表現抽出知識を編集するには，Edit Application画面で</span><code>NER knowledge</code><span>を選択します．Excelが起動するので，編集して保存してください． </span></p><p><span>固有表現抽出知識のExcelファイルは，</span><code>utterances</code><span>シートと，</span><code>classes</code><span>シートからなります．</span></p><p><span>以下がutterancesシートの例です．</span></p><figure class='table-figure'><table><thead><tr><th><span>flag</span></th><th><span>utterance</span></th><th><span>entities</span></th></tr></thead><tbody><tr><td><span>Y</span></td><td><span>札幌の味噌ラーメンが好きです</span></td><td><span>地名=札幌</span></td></tr><tr><td><span>Y</span></td><td><span>田中です</span></td><td><span>人名=田中</span></td></tr><tr><td><span>Y</span></td><td><span>太郎は東京に住んでます</span></td><td><span>人名=太郎，地名=東京</span></td></tr></tbody></table></figure><ul><li><p><code>flag</code><span>列は使いません．</span></p></li><li><p><code>utterance</code><span>列は発話例です．</span></p></li><li><p><code>entities</code><span>には，</span><code>&lt;固有表現クラス名&gt;=&lt;固有表現&gt;, ... ,&lt;固有表現クラス名&gt;=&lt;固有表現&gt;</code><span>の形で発話に含まれるスロットを書きます．カンマは全角でも読点でも構いません．</span></p></li></ul><p><span>以下は</span><code>classes</code><span>シートの例です．固有表現のクラス毎に1行記述します．</span></p><figure class='table-figure'><table><thead><tr><th><span>flag</span></th><th><span>class</span></th><th><span>explanation</span></th><th><span>examples</span></th></tr></thead><tbody><tr><td><span>Y</span></td><td><span>人名</span></td><td><span>人の名前</span></td><td><span>田中，山田，太郎，花子，ジョン</span></td></tr><tr><td><span>Y</span></td><td><span>地名</span></td><td><span>場所の名前</span></td><td><span>札幌，東京，大阪，日本，アメリカ，北海道</span></td></tr></tbody></table></figure><ul><li><p><code>flag</code><span>列は使いません．</span></p></li><li><p><code>class</code><span>列には固有表現のクラスを書きます．</span></p></li><li><p><code>explanation</code><span>列には固有表現の説明を書きます．</span></p></li><li><p><code>examples</code><span>列には，そのクラスの固有表現の例をカンマまたは読点で並べて書きます．</span></p></li></ul></div></div>
 </body>

diff --git a/docs/no-code/index-ja.md b/docs/no-code/index-ja.md
@@ -73,45 +73,43 @@ Windows11，MacOSで動作します．
 - 必要なファイルを以下の要領でダウンロードします．
 
   - ブラウザでのアドレスバーに https://github.com/c4a-ri/dialbb-scenario-editor/blob/main/docs/files/editor-gui.zip を打ち込んでEnterキーを押します．
-
-  - 遷移したページの右側の下向き矢印をクリックします．
-
-    ![github-download](images/github-download.png)
-
-  - `ダウンロード`フォルダに`editor_gui`という名前のzipファイル（または`editor_gui.zip`）がダウンロードされます．
-
-  - このファイルを先ほどのdialbbフォルダ（展開してできたフォルダ）に移動します。
-
-  - dialbbフォルダにある、install-scenario-editorをダブルクリックします。
+- 遷移したページの右側の下向き矢印をクリックします．
   
+- `ダウンロード`フォルダに`editor_gui`という名前のzipファイル（または`editor_gui.zip`）がダウンロードされます．
+  - このファイルを先ほどのdialbbフォルダ（展開してできたフォルダ）に移動します。
+- dialbbフォルダにある、install-scenario-editorをダブルクリックします。
     - 「WindowsによってPCが保護されました」と出るかもしれません。その場合、「詳細情報」をクリックすると、「実行」ボタンが出てくるので、それを押してください。
   - `Press any key to continue . . .`と表示されたらインストールは完了なので、何かキーを押して終了してください。
 
 ### 起動
 
-dialbbフォルダで`start-dialbb-nc`（または`start-dialbb-nc.bat`）をダブルクリックします。
+dialbbフォルダ内で`start-dialbb-nc`（または`start-dialbb-nc.bat`）をダブルクリックします。
 
 正常に起動するとメイン画面が表示されます．  
 
-<img src="images/gui-main.jpg" width="70%">
+<img src="images/gui-main-ja.jpg" width="70%">
+
+## インストールと起動（Mac）
+
+記述予定
 
 ## アプリケーションの読み込み・作成・書き出し
 
 ### アプリケーションの読み込み/新規作成
 
-- すでにあるアプリケーションを読み込む場合は，`選択`ボタンをクリックし，読み込むアプリケーションのzipファイルを選択し，`import`を押します．
+- すでにあるアプリケーションを読み込む場合は，`選択`ボタンをクリックし，読み込むアプリケーションのzipファイルを選択し，`読み込み`を押します．
 
     <img src="images/gui-select-file-ja.jpg" width="60%">
 
-- アプリケーションを新たに作成する場合は，`create`ボタンをクリックし，言語を選択します．テンプレートアプリケーションファイルが読み込まれます．  
+- アプリケーションを新たに作成する場合は，`新規作成`ボタンをクリックし，言語を選択します．テンプレートアプリケーションファイルが読み込まれます．  
 
-    <img src="images/gui-create.jpg" width="40%">
+    <img src="images/gui-create-ja.png" width="60%">
 
 - その時点で読み込まれているアプリケーションの名前（zipファイルの名前）がメイン画面の`Current application`のところに表示されます．
 
 ###  アプリケーションの書き出し
 
-- `export`ボタンをクリックし，保存する場所/ファイル名を指定します，zipファイルにまとめて保存されます．  
+- `書き出し`ボタンをクリックし，保存する場所/ファイル名を指定します，zipファイルにまとめて保存されます．  
 
   <img src="images/gui-export-ja.jpg" width="60%">
 
@@ -121,15 +119,15 @@ dialbbフォルダで`start-dialbb-nc`（または`start-dialbb-nc.bat`）をダ
 
 最初にDialBB-NCを使うときや，DialBBのインストールをし直した後には，OpenAIのAPIキーの登録が必要です．OpenAIのAPIキーの登録は以下のようにします．  
 
-- `settings`ボタンを押します．  
-  ![settings](images/settings.png)
-- `OPENAI_API_KEY`の右側に別途入手したOpenAIのAPIキーを入力し，`OK`ボタンを押します．`Saved`という表示が出るので再度`OK`ボタンを押します．OpenAIのAPIキーの入手方法は別途検索してください。
+- `設定ボタンを押します．  
+  ![settings](images/settings-ja.jpg)
+- `OPENAI_API_KEY`の右側に別途入手したOpenAIのAPIキーを入力し，`OK`ボタンを押します．`保存しました`という表示が出るので再度`OK`ボタンを押します．OpenAIのAPIキーの入手方法は別途「OpenAI API キー」などで検索して調べてください。
 
 ### 起動
 
-- `start`ボタンをクリックします．アプリケーションサーバが起動します．
+- `起動`ボタンをクリックします．アプリケーションサーバが起動します．
 
-- ChromeやEdgeなどのブラウザを開き，アドレスバーに`http://localhost:8080/`を打ち込んでEnterを押します．以下のような画面が表示されます．
+- ChromeやEdgeなどのブラウザを開き，アドレスバーに`http://localhost:8080/`を打ち込んでEnterを押します．以下のようなチャット画面が表示されます．
 
   <img src="images/frontend.png" width="60%">
 
@@ -137,13 +135,17 @@ dialbbフォルダで`start-dialbb-nc`（または`start-dialbb-nc.bat`）をダ
 
 - 再度最初から会話を始めたい場合はブラウザのリロードボタンを押してください．
 
+- http://localhost:8080/testにアクセスするとシンプルな画面が出ます。（対話のログのコピペがしやすいです）
+
 ### 停止
 
 - メインGUIで`stop`ボタンを押すとアプリケーションサーバが停止します．
 
 ### ログ
 
-- ログはホームフォルダ（ホームディレクトリ）の中の`.dialbb_nc_logs`の中に書きだされます．
+- ブラウザからアクセスしても画面が出ない場合や対話がうまくいかない場合は、`ログ表示`ボタンを押し、ログを見て近くのエンジニアか[DialBB開発者](mailto:dialbb@c4a.jp)に相談してください。
+
+- ログはホームフォルダ（ホームディレクトリ）の中の`.dialbb_nc_logs`フォルダの中に書きだされます．
   - ホームフォルダは，Windowsの場合，`C:\Users\<ユーザ名>`です．
   - ログは日付毎にフォルダにまとまっています．
   - ログファイルは`<アプリケーションが起動した時間>.txt`です．
@@ -154,11 +156,11 @@ dialbbフォルダで`start-dialbb-nc`（または`start-dialbb-nc.bat`）をダ
 ## アプリケーションの編集
 
 - アプリケーションを読み込んだ状態で`edit`ボタンをクリックし，編集するアプリケーションファイルを選択します．  
-   <img src="images/edit.jpg" width="40%">
+   <img src="images/edit-ja.jpg" width="40%">
 
 ### コンフィギュレーションの変更
 
-  Edit Application画面で`Configuration`ボタンを押すと，以下の画面が表示されます．
+  Edit Application画面で`コンフィギュレーション`ボタンを押すと，以下の画面が表示されます．
 
   <img src="images/edit-config-ja.jpg" width="40%">
 
@@ -166,15 +168,15 @@ dialbbフォルダで`start-dialbb-nc`（または`start-dialbb-nc.bat`）をダ
 
 | 編集項目 | 説明 |
 |-----|------|
-| Use named entity recognizer? | 固有表現抽出（後述）を行うかどうかを選択します． |
-| User natural language understander？ | 言語理解を行うかどうかを選択します． |
-| model | 利用するChatGPTのモデルを選択します．otherを押すと，プルダウンにないモデルを追加できます． |
-| situation | GPTのプロンプトに書く状況を入力します，1行ごとに状況を記述します． |
-| persona | GPTのプロンプトに書くシステムのペルソナを入力します，1行ごとにペルソナを記述します． |
+| 固有表現抽出を行いますか？ | 固有表現抽出（後述）を行うかどうかを選択します． |
+| 言語理解を行いますか？ | 言語理解を行うかどうかを選択します． |
+| モデル | 利用するChatGPTのモデルを選択します．`その他`を押すと，プルダウンにないモデルを追加できます． |
+| 状況 | GPTのプロンプトに書く状況を入力します，1行ごとに状況を記述します． |
+| ペルソナ | GPTのプロンプトに書くシステムのペルソナを入力します，1行ごとにペルソナを記述します． |
 
 ### シナリオファイルの編集
 
-Edit Application画面で`scenario`ボタンを押すと，シナリオエディタが表示されます．もし表示されなければ，Webブラウザを立ち上げて，現れたWindowに書いてあるURLをブラウザのアドレスバーに貼り付けてエンターキーを押してください．
+Edit Application画面で`シナリオ`ボタンを押すと，シナリオエディタが表示されます．もし表示されなければ，Webブラウザを立ち上げて，現れたウインドウに書いてあるURLをブラウザのアドレスバーに貼り付けてエンターキーを押してください．
 
 #### シナリオエディタの概要
 
@@ -187,12 +189,12 @@ Edit Application画面で`scenario`ボタンを押すと，シナリオエディ
 <img src="images/scenario-editor-ja.jpg" width="90%">
 
 #### ノードの追加
-背景で右クリック し，`AddSystemNode`か`AddUserNode`を選択するとシステムノードかユーザノードが新規追加されます． 
+背景で右クリック し，`システムノード追加`か`ユーザノード追加`を選択するとシステムノードかユーザノードが新規追加されます． 
 
 <img src="images/add-node-ja.jpg" width="30%">
 
 #### ノードの削除
-ノードの上で右クリック し，`Delete`を選択するとそのノードが削除されます．
+ノードの上で右クリック し，`削除`を選択するとそのノードが削除されます．
 
 <img src="images/del-node-ja.jpg" width="30%">
 
@@ -250,9 +252,9 @@ Edit Application画面で`scenario`ボタンを押すと，シナリオエディ
 
 - `#<NE_固有表現のクラス>`
 
-  固有表現抽出の結果で置き換えられます．`{#NE_Person}`なら，直前のユーザ発話の固有表現抽出の結果得られた`Person`クラスの固有表現が用いられます．
+  固有表現抽出の結果で置き換えられます．`{#NE_人名}`なら，直前のユーザ発話の固有表現抽出の結果得られた`人名`クラスの固有表現が用いられます．
 
-  例：`こんにちは，{#NE_Person}さん`
+  例：`こんにちは，{#NE_人名}さん`
 
   固有表現が抽出できなかった場合，空文字列になります．スロットが空でないときだけ，このノードに来るように，ユーザノードで設定する必要があります．
   
@@ -264,15 +266,15 @@ Edit Application画面で`scenario`ボタンを押すと，シナリオエディ
 
 <img src="images/user-node-ja.jpg" width="30%">　
 
-`priority number`はこのユーザノードの優先度を表す整数です．一つのシステムノードからつながっているユーザノードのうち，priority numberの高い順に条件がチェックされます．この数字は，シナリオを保存する度にリセットされ，大きいものから順に100, 90, 80, ...に変更されます．
+`優先度`はこのユーザノードの優先度を表す整数です．一つのシステムノードからつながっているユーザノードのうち，priority numberの高い順に条件がチェックされます．この数字は，シナリオを保存する度にリセットされ，大きいものから順に100, 90, 80, ...に変更されます．
 
-`user utterance example`にはユーザ発話例を書きます．システムの動作には影響しません．書かなくても構いません．
+`ユーザ発話の例`にはユーザ発話例を書きます．システムの動作には影響しません．書かなくても構いません．
 
-`user utterance type`と`conditions`にはこのユーザノードの条件を書きます．両方が満たされたとき，このユーザノードの次のシステムノードに移行します．
+`ユーザ発話タイプ`と`遷移の条件￥`にはこのユーザノードの条件を書きます．両方が満たされたとき，このユーザノードの次のシステムノードに移行します．
 
-`user utterance type`は言語理解で得られるユーザ発話のタイプを書きます．コンフィギュレーションで，言語理解を行うことを選択している場合，および，言語理解で得られたユーザ発話のタイプが，ここに書いてあるものにマッチした場合，条件が満たされます．ここが空の場合は，必ず条件が満たされたとみなします．
+`ユーザ発話タイプ`は言語理解で得られるユーザ発話のタイプを書きます．コンフィギュレーションで，言語理解を行うことを選択している場合，および，言語理解で得られたユーザ発話のタイプが，ここに書いてあるものにマッチした場合，条件が満たされます．ここが空の場合は，必ず条件が満たされたとみなします．
 
-`conditions`には，ユーザ発話以外のタイプに関する条件を書きます．条件が複数ある場合は，";"でつなぎます．条件には以下のようなものが書けます．
+`遷移の条件`には，ユーザ発話以外のタイプに関する条件を書きます．条件が複数ある場合は，";"でつなぎます．条件には以下のようなものが書けます．
 
 - `$"<インストラクション>"` 
   ChatGPTにインストラクションを与えて条件判定をさせます．このとき，コンフィギュレーションで指定したsituationとpersonaが用いられます．
@@ -290,7 +292,7 @@ Edit Application画面で`scenario`ボタンを押すと，シナリオエディ
 
   直前のユーザ発話の固有表現抽出で得られた固有表現の値が文字列に一致するかどうか（`==`）または一致しないかどうか（`!=`）を判定します．
 
-  例：`#NE_Person!=""`
+  例：`#NE_人名!=""`
 
   固有表現が抽出できなかった場合，空文字列になります．例えば`Person`クラスの固有表現が抽出できなかった場合，条件，`#NE_Person!=""`は満たされません．
 
@@ -299,7 +301,7 @@ Edit Application画面で`scenario`ボタンを押すと，シナリオエディ
   対話開始からのユーザ発話の回数が`<ターン数>`を超えた場合に条件が満たされます．
   例：`_num_turns_exceeds("10")`
 
-`actions`は進んだ使い方の時のみ利用するのでここでは説明しません．
+`遷移時のアクション`は進んだ使い方の時のみ利用するのでここでは説明しません．
 
 ### 言語理解用知識の編集
 
